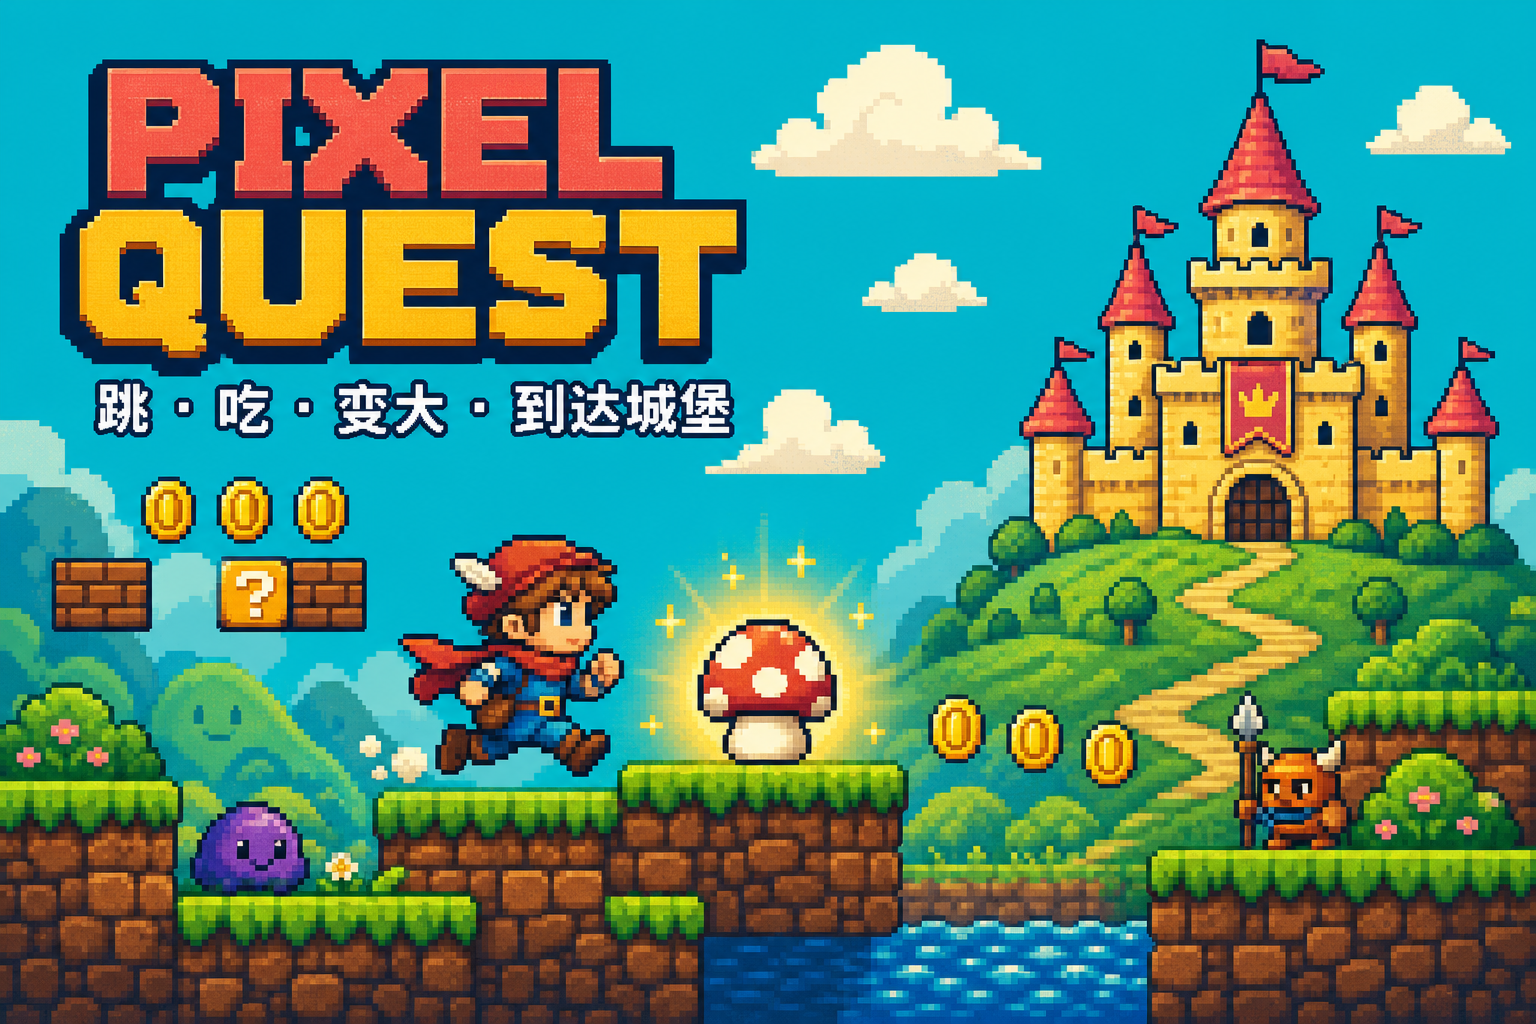
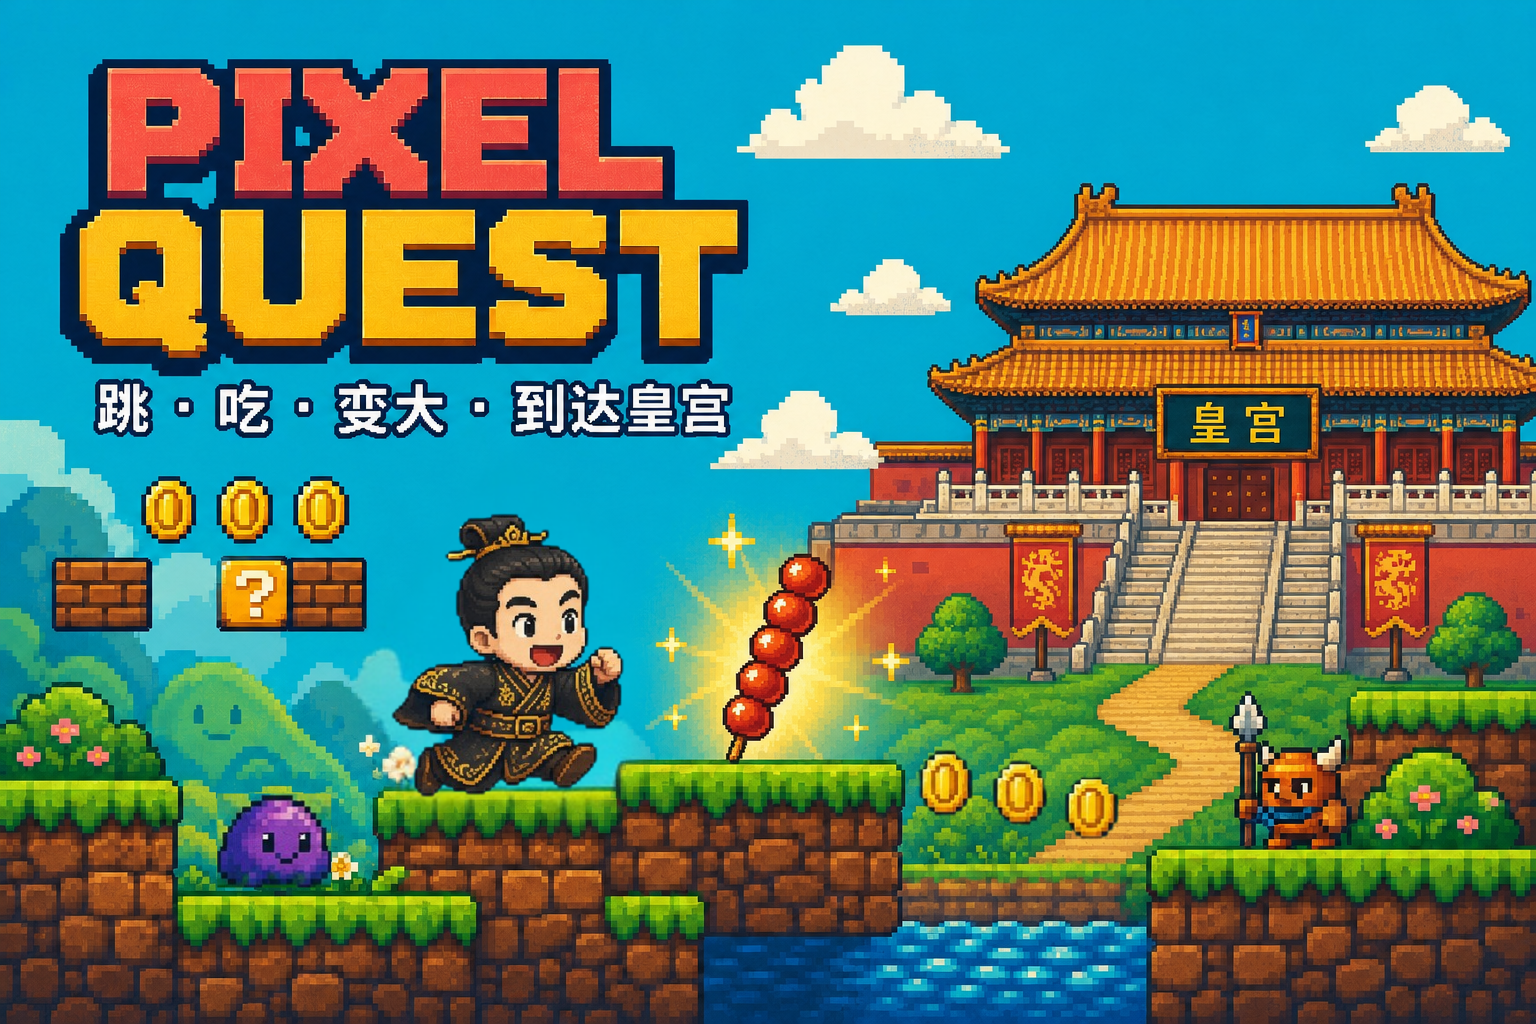
Fix hero and add Chinese pixel quest

diff --git a/app/page.tsx b/app/page.tsx
@@ -1,30 +1,16 @@
 "use client";
 
-import { ChangeEvent, useEffect, useRef, useState } from "react";
+import { useEffect, useRef, useState } from "react";
 
 type Status = "ready" | "playing" | "won" | "lost";
 
 export default function Home() {
   const canvasRef = useRef<HTMLCanvasElement>(null);
-  const portraitRef = useRef<HTMLImageElement | null>(null);
   const controls = useRef({ left: false, right: false, jump: false });
   const [status, setStatus] = useState<Status>("ready");
   const [coins, setCoins] = useState(0);
   const [big, setBig] = useState(false);
-  const [portrait, setPortrait] = useState<string | null>(null);
   const restartRef = useRef<() => void>(() => {});
-
-  const uploadPortrait = (event: ChangeEvent<HTMLInputElement>) => {
-    const file = event.target.files?.[0];
-    if (!file) return;
-    const url = URL.createObjectURL(file);
-    const image = new Image();
-    image.onload = () => {
-      portraitRef.current = image;
-      setPortrait(url);
-    };
-    image.src = url;
-  };
 
   useEffect(() => {
     const canvas = canvasRef.current;
@@ -87,36 +73,36 @@ export default function Home() {
       ctx.strokeStyle = "#4a2730"; ctx.lineWidth = 3;
       for (let bx = x; bx < x + w; bx += 42) ctx.strokeRect(bx, y + 12, 42, 28);
     };
-    const drawCastle = (x: number) => {
-      ctx.fillStyle = "#ffce54"; ctx.fillRect(x + 48, 225, 220, 230);
-      ctx.fillStyle = "#f4a93e";
-      ctx.fillRect(x + 12, 300, 72, 155); ctx.fillRect(x + 235, 300, 72, 155);
-      ctx.fillStyle = "#ef5a47";
-      ctx.beginPath(); ctx.moveTo(x + 5, 300); ctx.lineTo(x + 48, 235); ctx.lineTo(x + 91, 300); ctx.fill();
-      ctx.beginPath(); ctx.moveTo(x + 227, 300); ctx.lineTo(x + 271, 235); ctx.lineTo(x + 315, 300); ctx.fill();
-      ctx.fillStyle = "#2b2448"; ctx.fillRect(x + 130, 370, 55, 85);
-      ctx.fillRect(x + 37, 345, 18, 28); ctx.fillRect(x + 263, 345, 18, 28);
-      ctx.fillStyle = "#fff2b8";
-      for (let i = 0; i < 6; i++) ctx.fillRect(x + 48 + i*37, 214, 20, 25);
-      ctx.fillStyle = "#ef5a47"; ctx.fillRect(x + 157, 170, 7, 54);
-      ctx.fillRect(x + 164, 170, 50, 25);
+    const drawPalace = (x: number) => {
+      ctx.fillStyle = "#b7332b"; ctx.fillRect(x + 35, 290, 270, 165);
+      ctx.fillStyle = "#f1c45e"; ctx.fillRect(x + 55, 315, 230, 16);
+      ctx.fillStyle = "#1f6072"; ctx.fillRect(x + 65, 335, 210, 16);
+      ctx.fillStyle = "#ef9f2f";
+      ctx.beginPath(); ctx.moveTo(x, 290); ctx.lineTo(x + 45, 250); ctx.lineTo(x + 295, 250); ctx.lineTo(x + 340, 290); ctx.fill();
+      ctx.fillStyle = "#ffd65c"; ctx.fillRect(x + 28, 280, 284, 13);
+      ctx.fillStyle = "#ef9f2f";
+      ctx.beginPath(); ctx.moveTo(x + 38, 250); ctx.lineTo(x + 78, 205); ctx.lineTo(x + 262, 205); ctx.lineTo(x + 302, 250); ctx.fill();
+      ctx.fillStyle = "#ffd65c"; ctx.fillRect(x + 67, 240, 206, 12);
+      ctx.fillStyle = "#6f201f"; ctx.fillRect(x + 135, 365, 70, 90);
+      ctx.fillStyle = "#e9be75";
+      for (let i = 0; i < 6; i++) ctx.fillRect(x + 55 + i*47, 315, 12, 140);
+      ctx.fillStyle = "#203e54"; ctx.fillRect(x + 120, 262, 100, 34);
+      ctx.fillStyle = "#ffd65c"; ctx.font = "900 22px serif"; ctx.textAlign = "center"; ctx.fillText("皇 宫", x + 170, 287);
+      ctx.fillStyle = "#ef9f2f";
+      ctx.fillRect(x + 15, 275, 28, 10); ctx.fillRect(x + 297, 275, 28, 10);
     };
     const drawPlayer = () => {
       const x = Math.round(player.x - camera), y = Math.round(player.y);
       ctx.save();
-      if (portraitRef.current) {
-        ctx.imageSmoothingEnabled = false;
-        ctx.fillStyle = "#ef5a47"; ctx.fillRect(x - 4, y - 6, player.w + 8, 15);
-        ctx.save(); ctx.beginPath(); ctx.arc(x + player.w/2, y + player.w/2, player.w/2 - 2, 0, Math.PI*2); ctx.clip();
-        ctx.drawImage(portraitRef.current, x + 2, y + 2, player.w - 4, player.w - 4); ctx.restore();
-        ctx.fillStyle = "#205b8c"; ctx.fillRect(x + 4, y + player.w - 1, player.w - 8, player.h - player.w + 1);
-      } else {
-        ctx.fillStyle = "#ef5a47"; ctx.fillRect(x + 2, y, player.w - 4, 12); ctx.fillRect(x - 2, y + 8, player.w + 4, 7);
-        ctx.fillStyle = "#f4b879"; ctx.fillRect(x + 7, y + 15, player.w - 11, 14);
-        ctx.fillStyle = "#2b2448"; ctx.fillRect(x + player.w - 10, y + 17, 4, 5);
-        ctx.fillStyle = "#205b8c"; ctx.fillRect(x + 5, y + 29, player.w - 10, player.h - 29);
-      }
-      ctx.fillStyle = "#402a2d"; ctx.fillRect(x, y + player.h - 7, 13, 7); ctx.fillRect(x + player.w - 13, y + player.h - 7, 13, 7);
+      ctx.fillStyle = "#171d2d"; ctx.fillRect(x + 9, y - 8, player.w - 18, 10);
+      ctx.fillRect(x + 5, y - 3, player.w - 10, 9);
+      ctx.fillStyle = "#f2b279"; ctx.fillRect(x + 6, y + 7, player.w - 12, 15);
+      ctx.fillStyle = "#171d2d"; ctx.fillRect(x + 3, y + 5, 7, 18); ctx.fillRect(x + player.w - 10, y + 5, 7, 18);
+      ctx.fillRect(x + 11, y + 10, 4, 5); ctx.fillRect(x + player.w - 15, y + 10, 4, 5);
+      ctx.fillStyle = "#1d2837"; ctx.fillRect(x + 2, y + 23, player.w - 4, player.h - 23);
+      ctx.fillStyle = "#d8a843"; ctx.fillRect(x + 5, y + 27, 4, player.h - 30); ctx.fillRect(x + player.w - 9, y + 27, 4, player.h - 30);
+      ctx.fillRect(x + 6, y + 31, player.w - 12, 4);
+      ctx.fillStyle = "#6d3529"; ctx.fillRect(x, y + player.h - 7, 13, 7); ctx.fillRect(x + player.w - 13, y + player.h - 7, 13, 7);
       ctx.restore();
     };
 
@@ -179,10 +165,12 @@ export default function Home() {
         ctx.strokeStyle = "#c9832d"; ctx.lineWidth = 3; ctx.strokeRect(x - 8, y - 13, 16, 26);
       });
       if (!mushroomTaken) {
-        ctx.fillStyle = "#fff2c5"; ctx.fillRect(1289, 397, 20, 22);
-        ctx.fillStyle = "#ef5a47"; ctx.fillRect(1280, 377, 38, 23);
-        ctx.fillStyle = "#fff2c5"; ctx.fillRect(1287, 382, 7, 7); ctx.fillRect(1306, 382, 7, 7);
-        ctx.strokeStyle = "#48243a"; ctx.lineWidth = 3; ctx.strokeRect(1280, 377, 38, 23);
+        ctx.strokeStyle = "#7a3e23"; ctx.lineWidth = 5;
+        ctx.beginPath(); ctx.moveTo(1299, 372); ctx.lineTo(1299, 423); ctx.stroke();
+        for (let i = 0; i < 4; i++) {
+          ctx.fillStyle = "#df3429"; ctx.beginPath(); ctx.arc(1299, 382 + i * 10, 9, 0, Math.PI * 2); ctx.fill();
+          ctx.fillStyle = "#ff7d42"; ctx.fillRect(1295, 377 + i * 10, 4, 4);
+        }
       }
       enemies.forEach((e) => {
         if (!e.alive) return;
@@ -191,7 +179,7 @@ export default function Home() {
         ctx.fillStyle = "#fff2c5"; ctx.fillRect(e.x + 9, e.y + 12, 6, 7); ctx.fillRect(e.x + 25, e.y + 12, 6, 7);
         ctx.fillStyle = "#2b2448"; ctx.fillRect(e.x + 11, e.y + 14, 3, 4); ctx.fillRect(e.x + 27, e.y + 14, 3, 4);
       });
-      drawCastle(3045);
+      drawPalace(3045);
       ctx.restore();
       drawPlayer();
       if (gameStatus === "ready") {
@@ -222,30 +210,26 @@ export default function Home() {
     <main>
       <header className="topbar">
         <div className="brand"><span className="brandDot">P</span><span>PIXEL QUEST</span></div>
-        <label className="uploadButton" htmlFor="portraitUpload">
-          <span className="uploadIcon">{portrait ? "✓" : "↑"}</span>
-          {portrait ? "图案已装备" : "上传个人图案"}
-        </label>
-        <input id="portraitUpload" type="file" accept="image/*" onChange={uploadPortrait} hidden />
+        <div className="fixedHero">固定角色 · 少年侠客</div>
       </header>
 
       <section className="hero">
-        <div className="eyebrow">一关 · 一个蘑菇 · 一座城堡</div>
-        <h1>去吧，小小冒险家！</h1>
-        <p>越过裂缝，踩扁捣蛋怪，吃下蘑菇变得更强大。你的头像，就是今天的主角。</p>
+        <div className="eyebrow">一关 · 一串糖葫芦 · 一座皇宫</div>
+        <h1>出发吧，少年侠客！</h1>
+        <p>越过山谷，踩扁捣蛋怪，吃下糖葫芦获得大力状态，一路闯到金瓦皇宫。</p>
       </section>
 
       <section className="gameShell">
         <div className="hud">
-          <div><span className="hudLabel">关卡</span><strong>1 — 青绿原野</strong></div>
-          <div className="hudStats"><span>🟡 × {String(coins).padStart(2,"0")}</span><span>{big ? "🍄 大力状态" : "♡ 小小状态"}</span></div>
+          <div><span className="hudLabel">关卡</span><strong>1 — 皇城郊野</strong></div>
+          <div className="hudStats"><span>🟡 × {String(coins).padStart(2,"0")}</span><span>{big ? "🍡 大力状态" : "♡ 轻功状态"}</span></div>
         </div>
         <div className="canvasWrap">
           <canvas ref={canvasRef} width="960" height="540" aria-label="横版平台游戏画面" />
           {status !== "playing" && (
             <div className="gameOverlay">
-              {status === "ready" && <><span className="overlayMini">你的冒险正在等待</span><h2>抵达右边的城堡</h2><p>← → 移动　·　空格跳跃　·　R 重来</p></>}
-              {status === "won" && <><span className="trophy">♛</span><h2>城堡到了！</h2><p>你收集了 {coins} 枚金币，完成了青绿原野。</p></>}
+              {status === "ready" && <><span className="overlayMini">侠客的旅程正在等待</span><h2>抵达右边的皇宫</h2><p>← → 移动　·　空格跳跃　·　R 重来</p></>}
+              {status === "won" && <><span className="trophy">♛</span><h2>皇宫到了！</h2><p>你收集了 {coins} 枚金币，完成了皇城郊野。</p></>}
               {status === "lost" && <><span className="trophy">☁</span><h2>差一点！</h2><p>冒险家不会被一个小坑打败。</p></>}
               <button onClick={() => restartRef.current()}>{status === "ready" ? "开始冒险 →" : "再玩一次 ↻"}</button>
             </div>
@@ -259,9 +243,9 @@ export default function Home() {
       </section>
 
       <section className="tips">
-        <article><span>01</span><div><h3>装备你的图案</h3><p>上传自拍、宠物或手绘图，让它出现在冒险家脸上。</p></div></article>
-        <article><span>02</span><div><h3>蘑菇会让你变大</h3><p>碰到红色蘑菇，体型和抗打能力都会提升。</p></div></article>
-        <article><span>03</span><div><h3>目标：月光城堡</h3><p>一路向右，安全穿过原野就是胜利。</p></div></article>
+        <article><span>01</span><div><h3>固定少年侠客</h3><p>身穿玄色金纹劲装，轻功跳跃，踏上唯一的皇城之路。</p></div></article>
+        <article><span>02</span><div><h3>糖葫芦大力状态</h3><p>碰到闪亮糖葫芦，体型和抗打能力都会提升。</p></div></article>
+        <article><span>03</span><div><h3>目标：金瓦皇宫</h3><p>一路向右，安全穿过皇城郊野就是胜利。</p></div></article>
       </section>
       <footer><span>PIXEL QUEST</span><span>原创像素冒险 · 为你而造</span></footer>
     </main>

diff --git a/app/globals.css b/app/globals.css
@@ -10,9 +10,7 @@ button,label { -webkit-tap-highlight-color:transparent; }
 .topbar { height:78px; padding:0 max(24px,calc((100vw - 1200px)/2)); display:flex; align-items:center; justify-content:space-between; border-bottom:3px solid var(--ink); background:#fff8df; }
 .brand { display:flex; align-items:center; gap:12px; font:900 18px/1 monospace; letter-spacing:1px; }
 .brandDot { display:grid; place-items:center; width:38px; height:38px; background:var(--red); color:white; border:3px solid var(--ink); box-shadow:4px 4px 0 var(--ink); }
-.uploadButton { cursor:pointer; display:flex; align-items:center; gap:9px; background:var(--yellow); border:3px solid var(--ink); padding:10px 16px; font-weight:800; box-shadow:4px 4px 0 var(--ink); transition:.15s; }
-.uploadButton:hover { transform:translate(-2px,-2px); box-shadow:6px 6px 0 var(--ink); }
-.uploadIcon { font-size:20px; }
+.fixedHero { background:var(--yellow); border:3px solid var(--ink); padding:10px 16px; font:800 13px monospace; box-shadow:4px 4px 0 var(--ink); }
 .hero { max-width:1200px; margin:0 auto; padding:48px 24px 30px; text-align:center; }
 .eyebrow { display:inline-block; padding:7px 12px; background:var(--teal); border:2px solid var(--ink); font:800 12px monospace; letter-spacing:1px; text-transform:uppercase; }
 h1 { margin:17px 0 8px; font-size:clamp(38px,6vw,72px); line-height:1; letter-spacing:-3px; }
@@ -41,7 +39,7 @@ canvas { display:block; width:100%; height:auto; image-rendering:pixelated; }
 footer { display:flex; justify-content:space-between; padding:24px max(24px,calc((100vw - 1200px)/2)); background:var(--ink); color:#fff8df; font:bold 12px monospace; letter-spacing:1px; }
 @media(max-width:720px) {
   .topbar { height:68px; padding:0 16px; }
-  .brand { font-size:14px; }.brandDot { width:32px;height:32px;}.uploadButton { padding:8px 10px; font-size:12px; box-shadow:3px 3px 0 var(--ink); }
+  .brand { font-size:14px; }.brandDot { width:32px;height:32px;}.fixedHero { padding:8px 10px; font-size:10px; box-shadow:3px 3px 0 var(--ink); }
   .hero { padding:36px 18px 22px; }.hero p { font-size:14px; } h1 { letter-spacing:-2px; }
   .gameShell { width:calc(100% - 20px); box-shadow:6px 6px 0 var(--ink); }
   .hud { height:auto; min-height:62px; padding:9px 12px; }.hudStats { gap:8px; flex-direction:column; font-size:11px; text-align:right; }

diff --git a/app/layout.tsx b/app/layout.tsx
@@ -3,10 +3,10 @@ import "./globals.css";
 
 export const metadata: Metadata = {
   title: "Pixel Quest｜你的像素冒险",
-  description: "上传个人图案，吃蘑菇变大，闯过青绿原野抵达城堡。",
+  description: "化身固定少年侠客，吃糖葫芦变大，闯过皇城郊野抵达金瓦皇宫。",
   openGraph: {
     title: "Pixel Quest｜你的像素冒险",
-    description: "跳、吃、变大，抵达城堡。",
+    description: "跳、吃、变大，抵达皇宫。",
     images: [{ url: "/og.png", width: 1536, height: 1024 }],
   },
   twitter: { card: "summary_large_image", images: ["/og.png"] },
